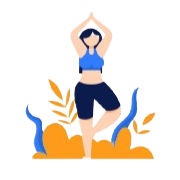
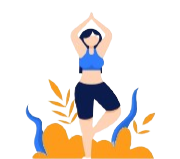
Prototype Start Screen

Changed region(s): [[0.1389, 0.0503, 0.8611, 1.0], [0.6111, 0.2264, 0.6389, 0.2516]]

diff --git a/App.tsx b/App.tsx
@@ -6,8 +6,10 @@
  */
 
 import React, { useState, useEffect } from 'react';
-import { SafeAreaView, ScrollView, StatusBar, StyleSheet, Text, TextInput, Button, useColorScheme, View, TouchableWithoutFeedback, TouchableOpacity, Image } from 'react-native';
+import { SafeAreaView, ScrollView, StatusBar, StyleSheet, Text, TextInput, Button, useColorScheme, View, TouchableWithoutFeedback, TouchableOpacity, Image, Dimensions  } from 'react-native';
 import AsyncStorage from '@react-native-async-storage/async-storage';
+
+const { height: screenHeight } = Dimensions.get('window');
 
 type SectionProps = {
   title: string;
@@ -76,18 +78,22 @@ function WelcomeScreen({ onFinish }: { onFinish: () => void }): React.JSX.Elemen
   };
 
   return (
-    <View style={styles.welcomeContainer}>
-      <Image source={require('./assets/start.png')} style={styles.welcomeImage} />
-      <Text style={styles.welcomeText}>Welcome! Please enter your name:</Text>
-      <TextInput 
-        style={styles.input}
-        placeholder="Your Name"
-        value={name}
-        onChangeText={setName}
-      />
-      <TouchableOpacity style={styles.saveButton} onPress={handlePress}>
-        <Text style={styles.saveButtonText}>Save</Text>
-      </TouchableOpacity>
+    <View style={[styles.welcomeContainer, { height: screenHeight}]}>
+      <View style={styles.welcomeContent}>
+        <Text style={styles.welcomeText}>Welcome! Please enter your name:</Text>
+        <TextInput
+          style={styles.input}
+          placeholder="Your Name"
+          value={name}
+          onChangeText={setName}
+        />
+        <TouchableOpacity style={styles.saveButton} onPress={handlePress}>
+          <Text style={styles.saveButtonText}>Save</Text>
+        </TouchableOpacity>
+      </View>
+      <View style={styles.welcomeImageContainer}>
+        <Image source={require('./assets/start.png')} style={styles.welcomeImage} />
+      </View>
     </View>
   );
 }
@@ -244,20 +250,22 @@ const styles = StyleSheet.create({
   },
   welcomeContainer: {
     flex: 1,
-    justifyContent: 'center',
-    alignItems: 'center',
+    justifyContent: 'space-between',
     padding: 16,
     backgroundColor: '#4CAF50',
+    overflow: 'hidden',
   },
-  welcomeImage: {
-    width: 200,
-    height: 200,
-    marginBottom: 16,
+  welcomeContent: {
+    width: '100%',
+    justifyContent: 'center',
+    alignItems: 'center',
   },
   welcomeText: {
     fontSize: 24,
     marginBottom: 16,
     color: '#ffffff',
+    textAlign: 'center',
+    marginTop: 50,
   },
   input: {
     width: '100%',
@@ -273,11 +281,21 @@ const styles = StyleSheet.create({
     paddingVertical: 10,
     paddingHorizontal: 20,
     borderRadius: 5,
+    marginBottom: 45,
   },
   saveButtonText: {
     color: '#4CAF50',
     fontSize: 16,
     fontWeight: '600',
+  },
+  welcomeImageContainer: {
+    width: '100%',
+    justifyContent: 'flex-end',
+    alignItems: 'center',
+  },
+  welcomeImage: {
+    width: '110%',
+    height: 450, // Adjust height as needed
   },
   headerContainer: {
     flexDirection: 'row',
